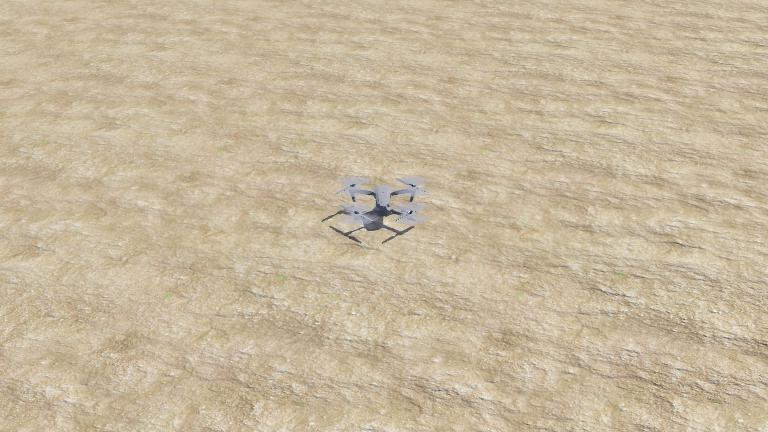
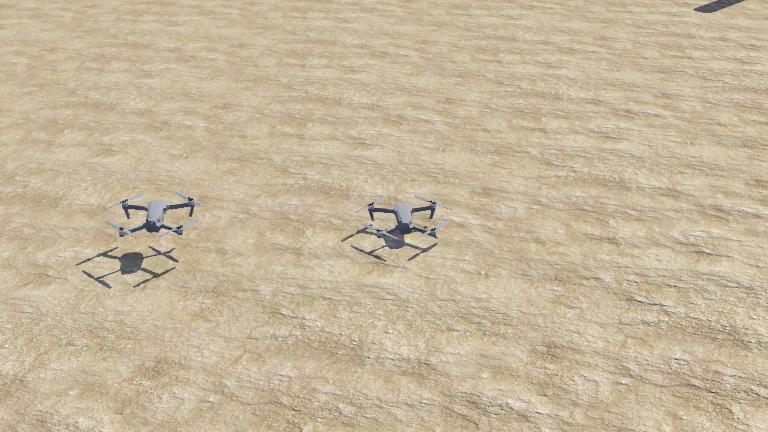
Added emitter and transmitter

diff --git a/controllers/uav_controller/uav.c b/controllers/uav_controller/uav.c
@@ -9,15 +9,6 @@
 
 #define CLAMP(val, min, max) ((val) < (min) ? (min) : ((val) > (max) ? (max) : (val)))
 
-union converter {
-    double num;
-    unsigned char bytes[8];
-};
-
-unsigned char gen_id(Position pos) {
-    return 0;
-}
-
 /* Initialization of the UAV */
 void uav_init(Uav* uav, int timestep){
 
@@ -35,6 +26,11 @@ void uav_init(Uav* uav, int timestep){
     // Initalize camera motors
     uav->camera_pitch_motor = wb_robot_get_device("camera pitch");
     uav->camera_roll_motor = wb_robot_get_device("camera roll");
+
+    // Initialize emitter and receiver
+    uav->emitter = wb_robot_get_device("emitter");
+    uav->receiver = wb_robot_get_device("receiver");
+    wb_receiver_enable(uav->receiver, timestep);
 
     // Get motors of the porpellers
     WbDeviceTag front_left_motor = wb_robot_get_device("front left propeller");
@@ -60,9 +56,6 @@ void uav_init(Uav* uav, int timestep){
     uav->pos.x = wb_gps_get_values(uav->gps)[0];
     uav->pos.y = wb_gps_get_values(uav->gps)[1];
     uav->pos.z = wb_gps_get_values(uav->gps)[2];
-
-    // Initialize UAV id
-    uav->id = 0;
 
     // Set motors to velocity mode
     for(int i = 0; i < 4; i++){

diff --git a/controllers/uav_controller/uav_controller.c b/controllers/uav_controller/uav_controller.c
@@ -3,20 +3,22 @@
 #include <stdio.h>
 
 int main(int argc, char **argv) {
-  // Initialize webots controller
-  wb_robot_init();
-  int timestep = (int)wb_robot_get_basic_time_step();
-#ifdef DEBUG
-  init_debug_file();
-#endif /* ifdef DEBUG */
-
   // Declare variabels and initialize goal
   Uav uav;
   Position goal;
+  int timestep;
 
   goal.x = -5.0;
   goal.y = 6.5;
   goal.z = 2.0; // Target altitude
+
+  // Initialize webots controller
+  wb_robot_init();
+  timestep = (int)wb_robot_get_basic_time_step();
+
+#ifdef DEBUG
+  init_debug_file();
+#endif /* ifdef DEBUG */
 
   /* Initialize the uav */
   uav_init(&uav, timestep);
@@ -30,8 +32,6 @@ int main(int argc, char **argv) {
       break;
   }
   
-  // Initialize the id of the uav
-
   // Main loop
   while (wb_robot_step(timestep) != -1) {
     const double time = wb_robot_get_time();
@@ -44,6 +44,7 @@ int main(int argc, char **argv) {
 #ifdef DEBUG
   cleanup_debug_file();
 #endif /* ifdef DEBUG */
+
   wb_robot_cleanup();
 
   return EXIT_SUCCESS;

diff --git a/controllers/uav_controller/uav.h b/controllers/uav_controller/uav.h
@@ -22,8 +22,11 @@
 #include <webots/led.h>
 #include <webots/motor.h>
 #include <webots/camera.h>
+#include <webots/emitter.h>
+#include <webots/receiver.h>
 
 #include "util.h"
+#include "comm_module.h"
 
 // Uncomment for debug functionality
 //#define DEBUG
@@ -61,6 +64,9 @@ typedef struct uav
 
     WbDeviceTag motors[4];
 
+    WbDeviceTag emitter;
+    WbDeviceTag receiver;
+
     /* Variables */
     double target_alt; // Targeted altitude
     bool tagetReached;
@@ -74,7 +80,7 @@ typedef struct uav
     int target_reached;
 
     // Communication
-    unsigned char id;
+    struct comm_module comm_mod;
 } Uav;
 
 void uav_init(Uav* uav, int timestep);

diff --git a/controllers/uav_controller/comm_module.h b/controllers/uav_controller/comm_module.h
@@ -1,0 +1,16 @@
+/*
+ * comm_module.h
+ * Author: Yannick Abouem
+ * Date: 2024-03-11
+ * Description: Header file of comm_module.c
+*/
+
+#include <stdlib.h>
+#include <math.h>
+
+struct comm_module {
+    unsigned char id;
+};
+
+// comm_gen_id randomly generates an id and stores it in the comm_module structure
+void comm_gen_id(struct comm_module *module, unsigned int seed);

diff --git a/controllers/uav_controller/comm_module.c b/controllers/uav_controller/comm_module.c
@@ -1,0 +1,13 @@
+/*
+* comm_module.c
+* Author: Yannick Abouem
+* Date: 2024-03-11
+* Description: Communication and distributed algorithms
+*/
+
+#include "comm_module.h"
+
+void comm_gen_id(struct comm_module *module, unsigned int seed) {
+    srand(seed);
+    module->id = (unsigned char) floor(((double) rand() / RAND_MAX) * 256);
+}
